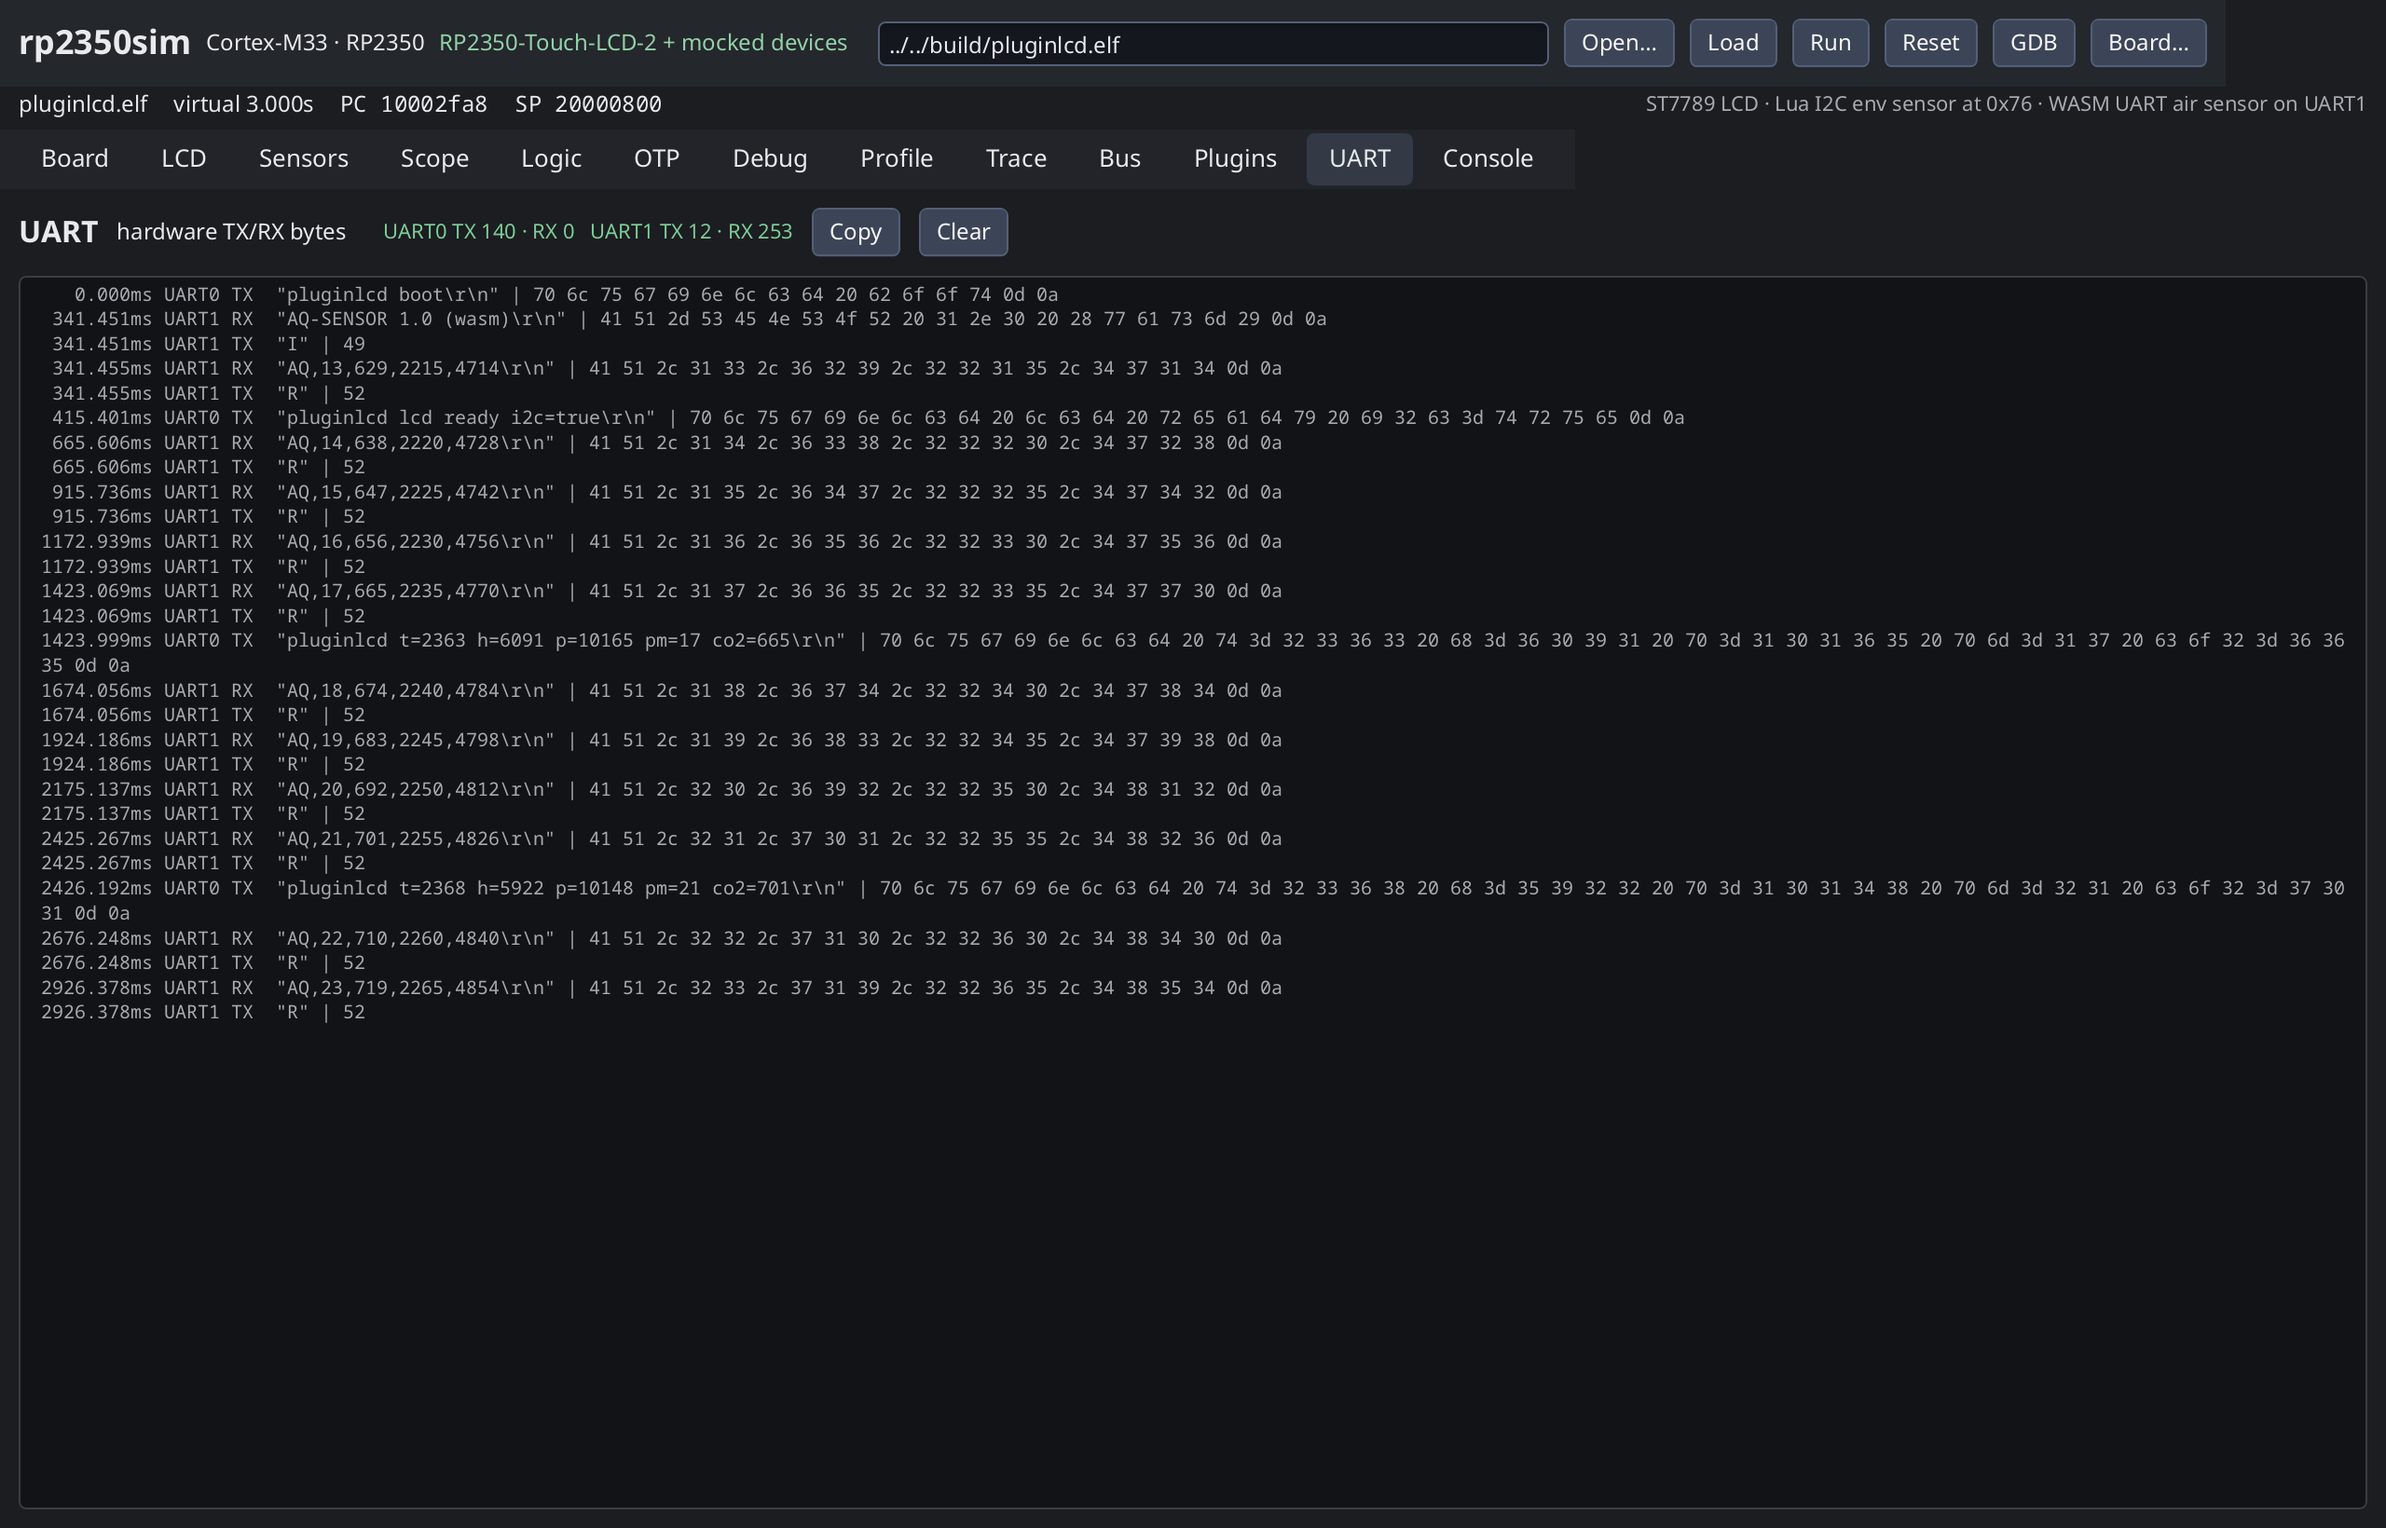
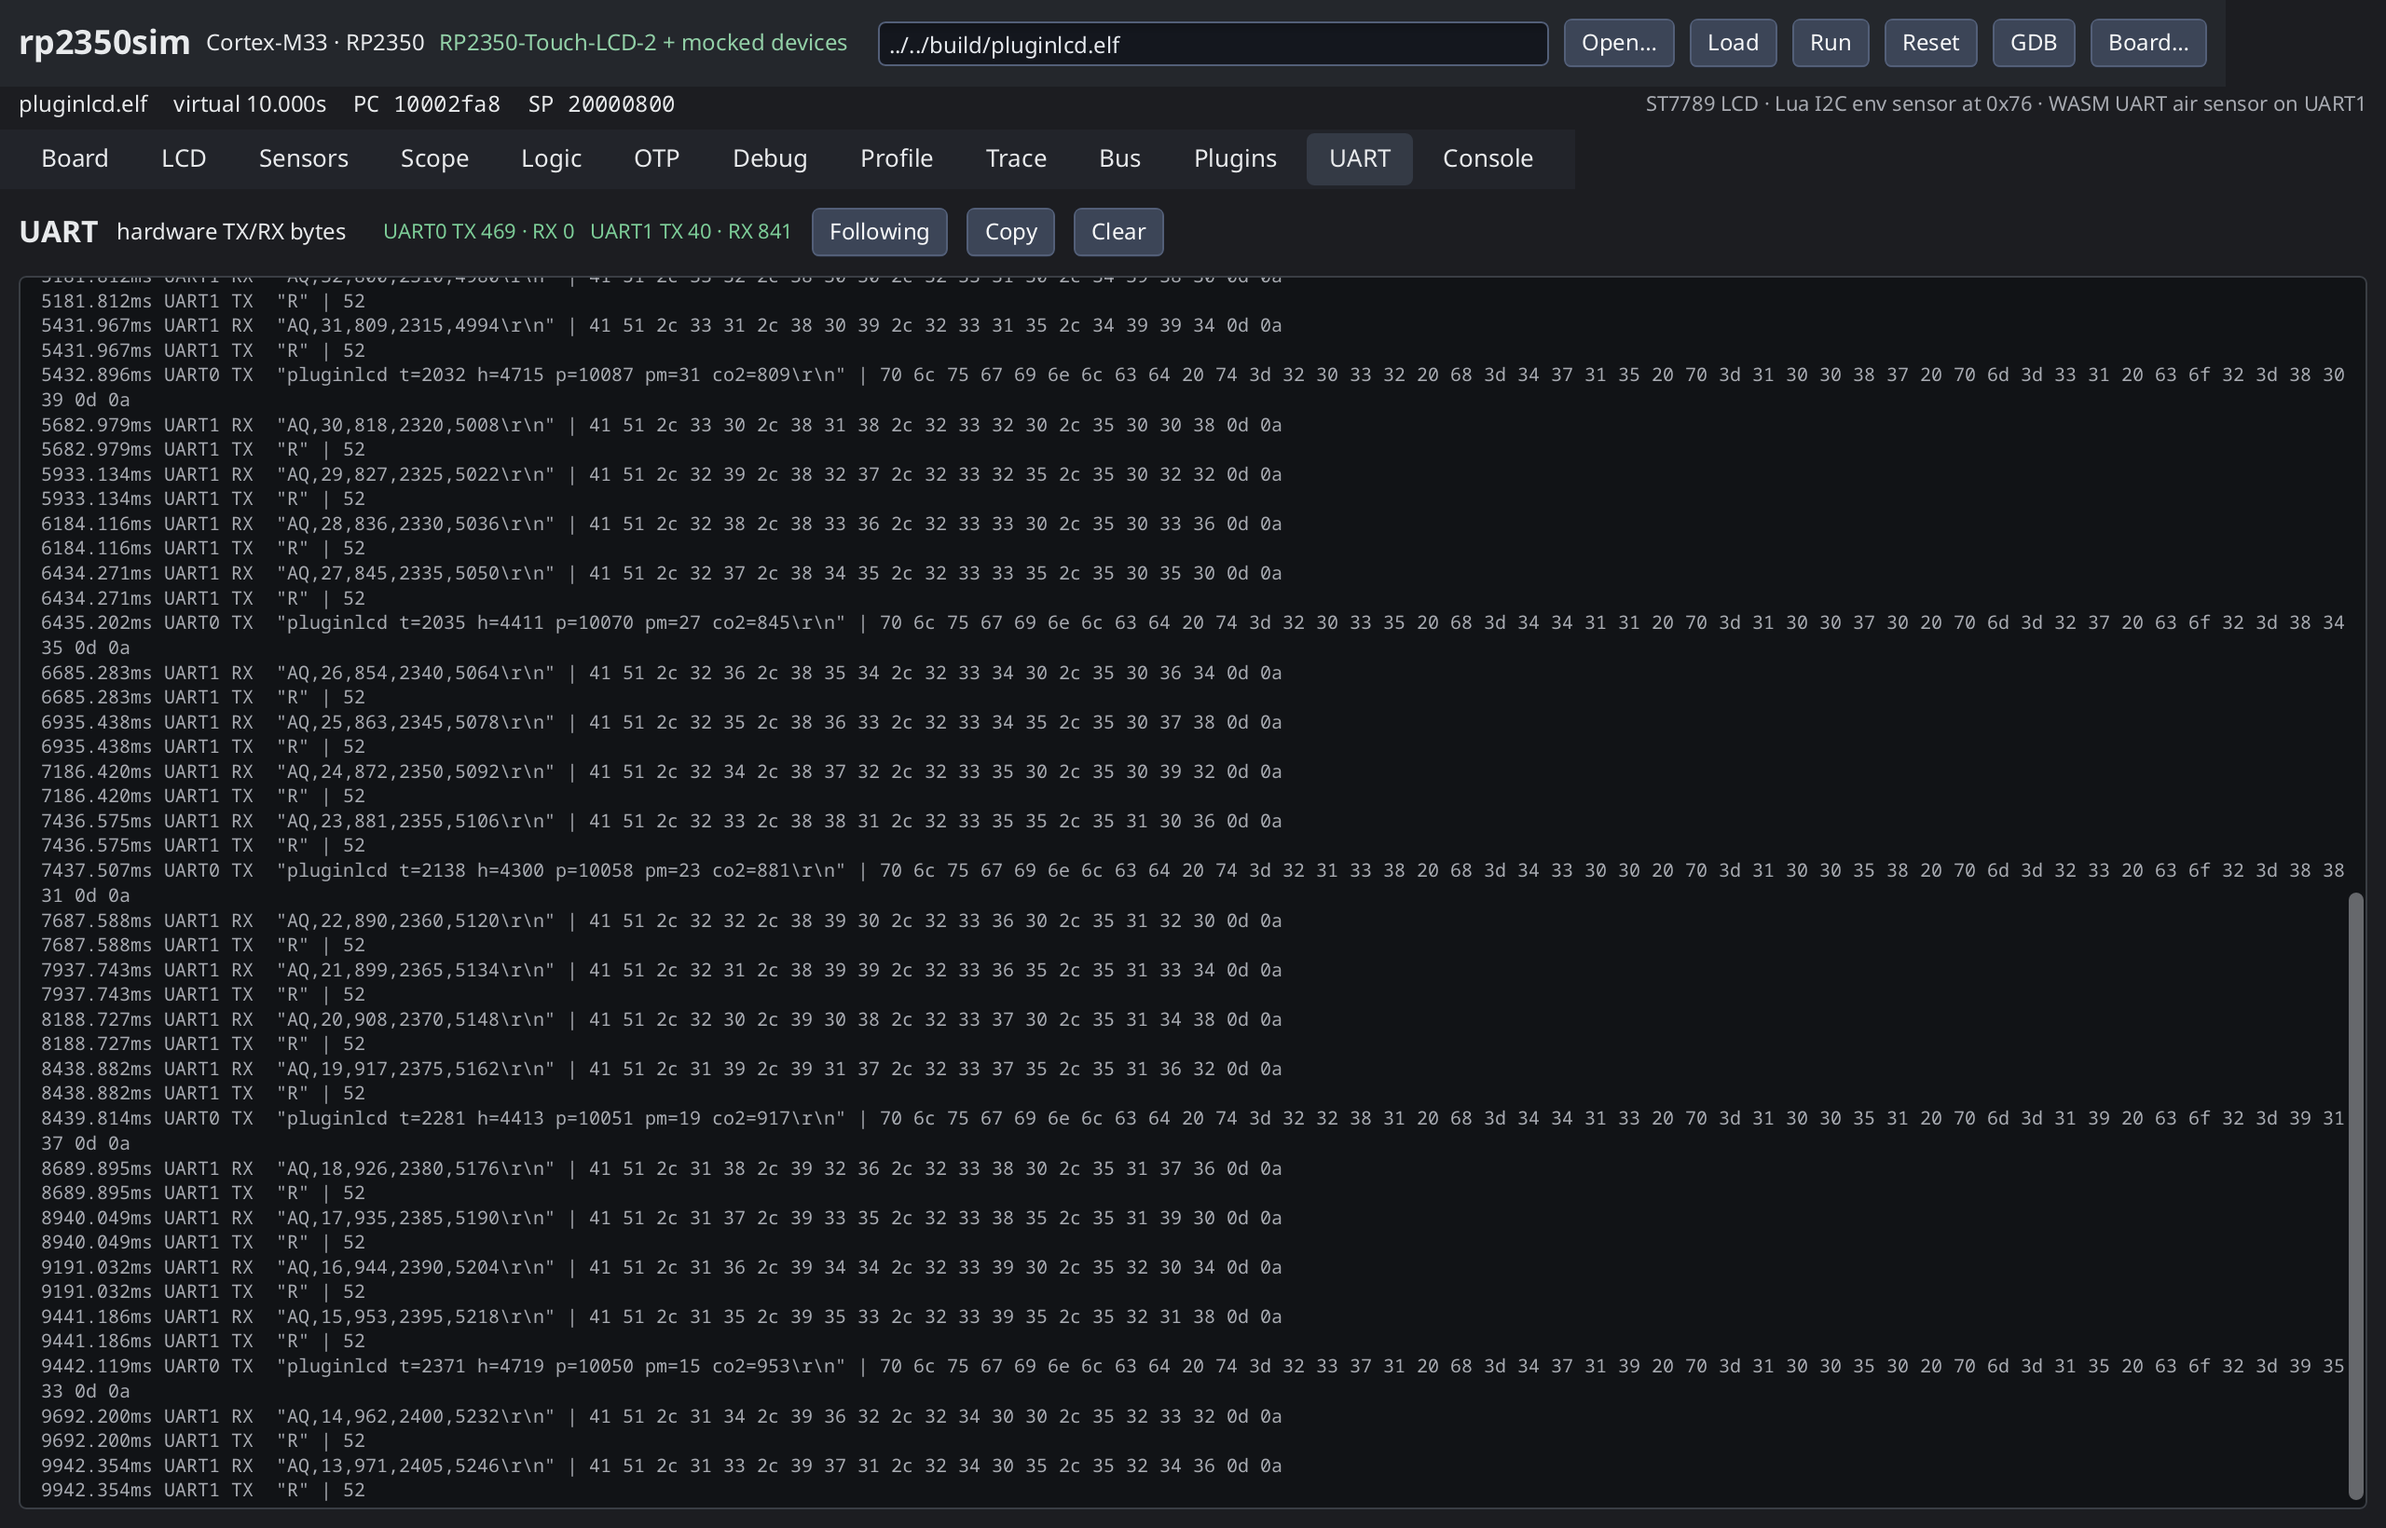
ui: keep a deep, following UART log

diff --git a/cmd/simui/main.go b/cmd/simui/main.go
@@ -52,6 +52,7 @@ var (
 	logicSaveErr       bool
 	cywSaveMsg         string
 	cywSaveErr         bool
+	uartFollow         = true
 	busTerms           = map[string]*BusTerminal{}
 	busTermErrs        = map[string]string{}
 	busInput           string
@@ -3464,7 +3465,10 @@ func pluginTotalLines(plugins []PluginInfo) int {
 // show.
 // uartLineBytes is the maximum number of bytes grouped into one log line. A
 // newline also ends the line, so firmware output stays line-oriented.
-const uartLineBytes = 64
+const (
+	uartLineBytes = 64
+	uartMaxLines  = 1000
+)
 
 type uartLogLine struct {
 	cycle uint64
@@ -3555,6 +3559,14 @@ func uartPanel(snap MachineState) {
 			Filler(1)
 			Label(fmt.Sprintf("UART0 TX %d · RX %d   UART1 TX %d · RX %d",
 				tx[0], rx[0], tx[1], rx[1]), FontSize(11), TextColor(140, 45, 65, 1))
+			follow := "Follow"
+			if uartFollow {
+				follow = "Following"
+			}
+			if Button(NoIcon, follow) {
+				uartFollow = !uartFollow
+				RequestNextFrame()
+			}
 			if len(events) > 0 && Button(NoIcon, "Copy") {
 				RequestTextCopy(uartBytesText(events))
 			}
@@ -3566,6 +3578,9 @@ func uartPanel(snap MachineState) {
 		ContainerWithKey("uart-log",
 			Attrs(Grow(1), Expand, Clip, Viewport, Gap(1), Pad2(4, 6),
 				Background(220, 12, 8, 1), Corners(4), BorderWidth(1), BorderColor(220, 8, 25, 1)), func() {
+				if IsHovered() && (GetFrameInput().Scroll[0] != 0 || GetFrameInput().Scroll[1] != 0) {
+					uartFollow = false
+				}
 				ScrollOnInput()
 				ScrollBars()
 				if len(events) == 0 {
@@ -3573,13 +3588,16 @@ func uartPanel(snap MachineState) {
 					return
 				}
 				lines := groupUART(events)
-				if len(lines) > 512 {
-					lines = lines[len(lines)-512:]
+				if len(lines) > uartMaxLines {
+					lines = lines[len(lines)-uartMaxLines:]
 				}
 				base := events[0].Cycle
 				for _, line := range lines {
 					Label(line.String(base), Fonts(Monospace...), FontSize(10),
 						TextColor(220, 6, 68, 1))
+				}
+				if uartFollow {
+					SetScrollOffset(Vec2{0, 1e6})
 				}
 			})
 	})
@@ -3590,8 +3608,12 @@ func uartBytesText(events []UARTEvent) string {
 		return ""
 	}
 	base := events[0].Cycle
+	lines := groupUART(events)
+	if len(lines) > uartMaxLines {
+		lines = lines[len(lines)-uartMaxLines:]
+	}
 	var b strings.Builder
-	for _, line := range groupUART(events) {
+	for _, line := range lines {
 		b.WriteString(line.String(base))
 		b.WriteByte('\n')
 	}

diff --git a/cmd/simui/emu.go b/cmd/simui/emu.go
@@ -1185,7 +1185,9 @@ func trimRing[T any](s []T, max, keep int) []T {
 
 func (e *Emu) addUART(bus int, cycle uint64, in bool, b byte) {
 	e.uartEvents = append(e.uartEvents, UARTEvent{Bus: bus, Cycle: cycle, In: in, Data: b})
-	e.uartEvents = trimRing(e.uartEvents, 512, 256)
+	// Keep a deep history for the UART tab; the logic analyzer only looks at a
+	// handful of recent TX bytes, but the raw log is meant to be scrolled back.
+	e.uartEvents = trimRing(e.uartEvents, 16384, 8192)
 	if !in && e.triggerArmed("uart") {
 		e.checkTriggerLocked("uart", fmt.Sprintf("UART TX 0x%02x", b))
 	}

diff --git a/docs/ui.md b/docs/ui.md
@@ -595,10 +595,12 @@ with **Clear** and **Copy** buttons. See [device plugins](plugins.md).
 
 The **UART** tab is the raw hardware UART byte log, separate from the firmware
 console. It shows both directions (`TX` firmware→device, `RX` device→firmware)
-and both controllers. Bytes are grouped into readable lines of up to 64 bytes
-(and split at newlines), with the clear text and the hex bytes on the same
-line. Use it for a `serial_plugins` device on UART1 while the firmware's
-console stays on UART0. **Copy** exports the grouped log and **Clear** empties
+and both controllers, keeping the last 1000 lines. Bytes are grouped into
+readable lines of up to 64 bytes (and split at newlines), with the clear text
+and the hex bytes on the same line. Use it for a `serial_plugins` device on
+UART1 while the firmware's console stays on UART0. The view follows the newest
+byte by default (**Following**); scrolling with the wheel pauses following, and
+the button resumes it. **Copy** exports the grouped log and **Clear** empties
 it; the tab appears when the board configures a UART plugin or a logic-analyzer
 UART, or once any UART byte has moved.
 
